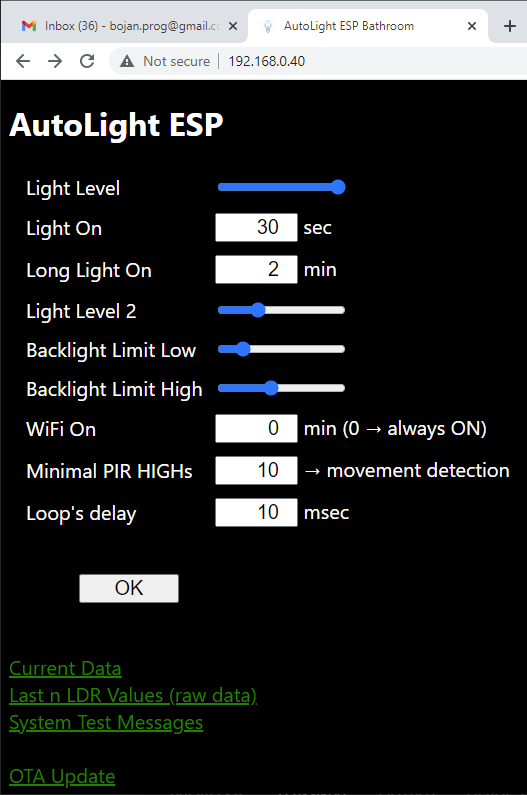
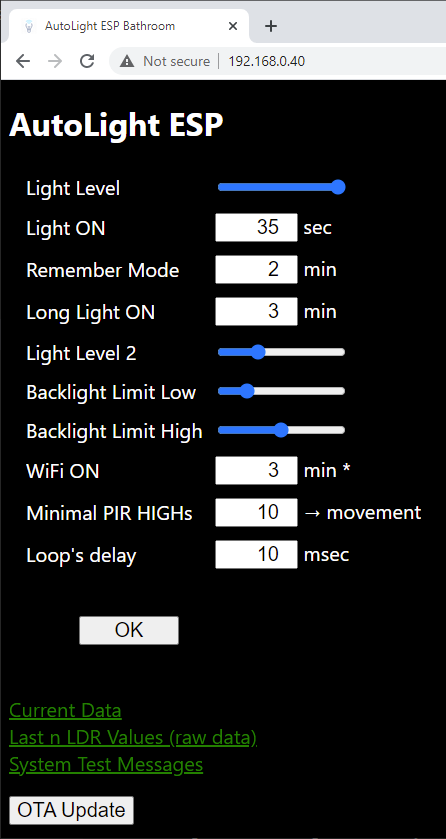
Added feat: OTA update via HTTP server. Added setts httpServerUpdate, rememberMode. Updated pic: Web app - Index.

diff --git a/data/index.html b/data/index.html
@@ -19,14 +19,17 @@
                 <tr>
                     <td>Light Level</td>
                     <td> <input type="range" id="numLightLevel" min="1" max="100"> </td>
-                    <!-- https://www.w3schools.com/howto/howto_js_rangeslider.asp -->
                 </tr>
                 <tr>
-                    <td>Light On</td>
+                    <td>Light ON</td>
                     <td><input type="number" id="numLightOn" min="1" max="300"> sec</td>
                 </tr>
                 <tr>
-                    <td>Long Light On</td>
+                    <td>Remember Mode</td>
+                    <td><input type="number" id="numRememberMode" min="1" max="30" size="3"> min</td>
+                </tr>
+                <tr>
+                    <td>Long Light ON</td>
                     <td><input type="number" id="numLongLightOn" min="1" max="30"> min</td>
                 </tr>
                 <tr>
@@ -42,21 +45,17 @@
                     <td><input type="range" id="numBacklightLimitHigh" min="1" max="100"></td>
                 </tr>
                 <tr>
-                    <td>WiFi On</td>
-                    <td><input type="number" id="numWifiOn" min="0" max="30" size="3"> min (0 → always ON)
+                    <td>WiFi ON</td>
+                    <td><input type="number" id="numWifiOn" min="0" max="30" size="3"> min *
                     </td>
                 </tr>
-                <!-- <tr>
-                    <td>Delay after light out</td>
-                    <td><input type="number" id="numLightOutDelay" min="0" max="2000" size="3"> msec</td>
-                </tr> -->
                 <tr>
                     <td>Minimal PIR HIGHs</td>
-                    <td><input type="number" id="numMinHighPIRs" min="1" max="100" size="3"> → movement detection</td>
+                    <td><input type="number" id="numMinHighPIRs" min="1" max="100" size="3"> → movement</td>
                 </tr>
                 <tr>
                     <td>Loop's delay</td>
-                    <td><input type="number" id="numMsMainDelay" min="5" max="500" size="3"> msec</td>
+                    <td><input type="number" id="numMsMainDelay" min="1" max="100" size="3"> msec</td>
                 </tr>
             </table>
             <input type="button" id='btnOk' value="OK" onclick="SaveConfig()" class="big">
@@ -66,9 +65,8 @@
             <a href="current_data.html">Current Data</a> <br>
             <a href="get_ldr_vals">Last n LDR Values (raw data)</a> <br>
             <a href="msgs">System Test Messages</a> <br>
-            <br>
-            <a href="otaUpdate">OTA Update</a>
         </p>
+        <button class="big" onclick="OTA()">OTA Update</button>
     </div>
 </body>
 

diff --git a/data/inc/index.js b/data/inc/index.js
@@ -55,13 +55,13 @@ function ParseConfig(resp) {
 
 function DisplayConfig() {
     numLightOn.value = ConfValue('lightOn');
-    numLongLightOn.value = ConfValue('longLightOn');
     numLightLevel.value = ConfValue('lightLevel');
+    numRememberMode.value = ConfValue('rememberMode');
+    numLongLightOn.value = ConfValue('longLightOn');
     numLightLevel2.value = ConfValue('lightLevel2');
     numBacklightLimitLow.value = ConfValue('backlightLimitLow');
     numBacklightLimitHigh.value = ConfValue('backlightLimitHigh');
     numWifiOn.value = ConfValue('wifiOn');
-    //B numLightOutDelay.value = ConfValue('lightOutDelay');
     numMinHighPIRs.value = ConfValue('minHighPIRs');
     numMsMainDelay.value = ConfValue('msMainDelay');
 }
@@ -77,13 +77,13 @@ function SaveConfig() {
     const sepParams = '&';
     const confData
         = 'lightOn' + sepProps + numLightOn.value + sepParams
-        + 'longLightOn' + sepProps + numLongLightOn.value + sepParams
         + 'lightLevel' + sepProps + numLightLevel.value + sepParams
+        + 'rememberMode' + sepProps + numRememberMode.value + sepParams
+        + 'longLightOn' + sepProps + numLongLightOn.value + sepParams
         + 'lightLevel2' + sepProps + numLightLevel2.value + sepParams
         + 'backlightLimitLow' + sepProps + numBacklightLimitLow.value + sepParams
         + 'backlightLimitHigh' + sepProps + numBacklightLimitHigh.value + sepParams
         + 'wifiOn' + sepProps + numWifiOn.value + sepParams
-        //B + 'lightOutDelay' + sepProps + numLightOutDelay.value + sepParams
         + 'minHighPIRs' + sepProps + numMinHighPIRs.value + sepParams
         + 'msMainDelay' + sepProps + numMsMainDelay.value;
 
@@ -97,4 +97,9 @@ function SaveConfig() {
         };
         xhttp.open('GET', 'save_config?' + confData, true); xhttp.send();
     }
+}
+
+function OTA() {
+    var res = confirm('Please choose:\n  OK - HTTP Server\n  Cancel - local OTA update');
+    location.href = 'otaUpdate?type=' + (res ? 'web' : 'local');
 }

diff --git a/src/main.cpp b/src/main.cpp
@@ -1,6 +1,8 @@
 #include <Arduino.h>
 #include <LinkedList.h>
 
+#include <ESP8266httpUpdate.h>
+
 #include <WiFiServerBasics.h>
 ESP8266WebServer server(80);
 
@@ -20,14 +22,10 @@ EasyINI ei("/config.ini");
 const byte pinPhotoRes = A0; // pin za LDR i taster za WiFi
 const byte pinPIR = D0;
 // OUTPUT
-const byte pinLight = D8; // LED svetlo za osvetljavanje prostorije
-const byte pinLed = 2;    // ugradjena LED dioda na ESPu - upaljena kada radi wifi
+const byte pinLight = D8;        // LED svetlo za osvetljavanje prostorije
+const byte pinLed = LED_BUILTIN; // ugradjena LED dioda na ESPu - upaljena kada radi wifi
 
-const int eepromPos = 88; // pozicija u EEPROMu na kojoj ce se cuvati podatak da li se wifi pali ili ne pri sledecm resetu
-
-const ulong itvOtaTime = 1 * 60 * 1000; // vreme (u ms) koje ce aparat provesti u cekanju da pocne OTA update
-const ulong itvModWait = 2 * 60 * 1000; // vreme cekanja na ponovnu upotrebu moda (dugo i/ili slabo svetlo).
-// posle toga se aparat vraca na standardna podesavanja - kratko (npr 45sec) svetlo, podrazumevanog intenziteta.
+const ulong itvOtaTime = 1 * 60 * 1000; // vreme koje ce aparat provesti u cekanju da pocne lokalni OTA update
 
 // variables
 bool isLightOn;              // da li je svetlo upaljeno ili ne
@@ -117,6 +115,7 @@ void WiFiOn()
 {
     SetLight(true);
     WiFi.mode(WIFI_STA);
+    //? if (WiFi.status() != WL_CONNECTED)
     ConnectToWiFi();
     SetupIPAddress(40);
     WebServerStart();
@@ -176,14 +175,6 @@ void HandleMsgs()
     server.send(200, "text/plain", EasyFS::readf());
 }
 
-void HandleOTA()
-{
-    server.send(200, "text/plain", "ESP is waiting for OTA updates...");
-    msLastServerAction = millis();
-    isOtaOn = true;
-    ArduinoOTA.begin();
-}
-
 void HandleNotFound()
 {
     String s = "Page Not Found\n\n";
@@ -193,6 +184,25 @@ void HandleNotFound()
     for (int i = 0; i < server.args(); i++)
         s += " " + server.argName(i) + ": " + server.arg(i) + "\n";
     server.send(404, "text/plain", s);
+}
+
+void HandleOTA()
+{
+    server.send(200, "text/plain", "ESP is waiting for OTA updates...");
+    String type = server.arg("type");
+    if (type == "web") // HTTP Server Update
+    {
+        delay(100); // kratko cekanje da se server.send() izvrsi
+        setts.setHttpServerUpdate(true);
+        setts.saveToFile();
+        ESP.reset();
+    }
+    if (type == "local") // PlatformIO Update
+    {
+        msLastServerAction = millis();
+        isOtaOn = true;
+        ArduinoOTA.begin();
+    }
 }
 
 // Konfiguracija veb servera i njegovo pokretanje.
@@ -226,9 +236,29 @@ void setup()
 
     Serial.begin(115200);
     LittleFS.begin();
-    ReadConfigFile();
     EasyFS::setFileName("/msgs.log", true);
-
+    newMsg("httpServerUpdate", setts.httpServerUpdate);
+    ReadConfigFile();
+    if (setts.httpServerUpdate)
+    {
+        WiFi.mode(WIFI_STA);
+        ConnectToWiFi();
+        setts.setHttpServerUpdate(false);
+        setts.saveToFile();
+        WiFiClient client;
+        ESPhttpUpdate.setLedPin(pinLed, LOW);
+        HTTPUpdateResult res = ESPhttpUpdate.updateFS(client, "http://kingtrader.info/esp/AutoLightESP2/littlefs.bin");
+        if (res == HTTP_UPDATE_OK)
+        {
+            res = ESPhttpUpdate.update(client, "http://kingtrader.info/esp/AutoLightESP2/firmware.bin");
+            if (res == HTTP_UPDATE_OK)
+                newMsg("update OK!");
+            else
+                newMsg("HTTP Server Update Error: " + ESPhttpUpdate.getLastErrorString());
+        }
+        else
+            newMsg("HTTP Server Update FS Error: " + ESPhttpUpdate.getLastErrorString());
+    }
     WiFiOn();
 }
 
@@ -300,7 +330,7 @@ void loop()
         msLastShortClick = cntShortClicks = 0;
     }
 
-    if (!isLightOn && msModLastSet != 0 && ms > msModLastSet && ms - msModLastSet > itvModWait)
+    if (!isLightOn && msModLastSet != 0 && ms > msModLastSet && ms - msModLastSet > setts.rememberMode)
     {
         isLongLight = isLight2 = false;
         msModLastSet = 0;

diff --git a/lib/Setts/src/Setts.h b/lib/Setts/src/Setts.h
@@ -13,6 +13,8 @@ private:
 
 public:
     uint lightOn;                 // koliko je sekundi svetlo upaljeno posle poslednjeg signala sa PIR-a
+    uint rememberMode;            // vreme cekanja na ponovnu upotrebu moda (dugo i/ili slabo svetlo).
+                                  // posle toga se aparat vraca na standardna podesavanja - kratko svetlo podrazumevanog intenziteta.
     uint longLightOn;             // koliko je minuta dugo svetlo upaljeno posle poslednjeg signala sa PIR-a
     uint lightLevel = MAX_LEVEL;  // jacina LED svetla (0-100)
     uint lightLevel2 = MAX_LEVEL; // jacina drugog/sekundarnog LED svetla (0-100)
@@ -20,22 +22,24 @@ public:
     uint backlightLimitHigh;      // granica pozadinskog osvetljenja ispod koje se svetlo ne gasi
     uint wifiOn;                  // broj minuta za koje wifi ostaje ukljucen; 0 -> wifi je uvek ukljucen
     uint msMainDelay;             // broj milisekundi delay-a u loop-u
-    //B uint lightOutDelay;           // delay u ms posle gasenja svetla
-    uint minHighPIRs; // minimalan broj uzastopnih PIR HIGH signala da bi se to prihvatilo kao detektovani pokret
+    uint minHighPIRs;             // minimalan broj uzastopnih PIR HIGH signala da bi se to prihvatilo kao detektovani pokret
+    bool httpServerUpdate;        // da li treba update-ovati ESP preko HTTP servera posle reseta
 
-    const uint MAX_LEVEL = 100; // maksimalni nivo osvetljenja
+    const uint MAX_LEVEL = 100;  // maksimalni nivo osvetljenja
+    const uint MAX_MINUTES = 30; // maksimalni interval u minutima (ukljucen WiFi, dugo svetlo...)
 
     int photoInterval; // Cekanje (u sec) izmedju 2 slikanja.
     void setLightOn(uint x) { lightOn = constrain(x, 1, 300); }
-    void setLongLightOn(uint x) { longLightOn = constrain(x, 1, 30); }
+    void setRememberMode(uint x) { rememberMode = constrain(x, 1, MAX_MINUTES); }
     void setLightLevel(uint x) { lightLevel = constrain(x, 1, MAX_LEVEL); }
+    void setLongLightOn(uint x) { longLightOn = constrain(x, 1, MAX_MINUTES); }
     void setLightLevel2(uint x) { lightLevel2 = constrain(x, 1, MAX_LEVEL); }
     void setBacklightLimitLow(uint x) { backlightLimitLow = constrain(x, 1, MAX_LEVEL); }
     void setBacklightLimitHigh(uint x) { backlightLimitHigh = constrain(x, 1, MAX_LEVEL); }
-    void setWifiOn(uint x) { wifiOn = constrain(x, 0, 30); }
-    //B void setLightOutDelay(uint x) { lightOutDelay = constrain(x, 0, 2000); }
+    void setWifiOn(uint x) { wifiOn = constrain(x, 0, MAX_MINUTES); }
     void setMinHighPIRs(uint x) { minHighPIRs = constrain(x, 1, 100); }
     void setMsMainDelay(uint x) { msMainDelay = constrain(x, 1, 100); }
+    void setHttpServerUpdate(bool x) { httpServerUpdate = x; }
 
     const char *getFileName() { return fileName; }
 

diff --git a/lib/Setts/src/Setts.cpp b/lib/Setts/src/Setts.cpp
@@ -5,7 +5,9 @@ bool Setts::load()
     ei = new EasyINI(fileName);
     if (ei->open(FMOD_READ))
     {
-        lightOn = ei->getInt("lightOn");
+        //B lightOn = ei->getInt("lightOn");
+        setLightOn(ei->getInt("lightOn"));
+        setRememberMode(ei->getInt("lightOn"));
         longLightOn = ei->getInt("longLightOn");
         lightLevel = ei->getInt("lightLevel");
         lightLevel2 = ei->getInt("lightLevel2");
@@ -13,8 +15,8 @@ bool Setts::load()
         backlightLimitHigh = ei->getInt("backlightLimitHigh");
         wifiOn = ei->getInt("wifiOn");
         msMainDelay = ei->getInt("msMainDelay");
-        //B lightOutDelay = ei->getInt("lightOutDelay");
         minHighPIRs = ei->getInt("minHighPIRs");
+        httpServerUpdate = ei->getInt("httpServerUpdate");
         ei->close();
         return true;
     }
@@ -26,6 +28,7 @@ void Setts::saveToMem(ESP8266WebServer &server)
 {
     // lightOn=41&lightLevel=100&backlightLimitLow=21&backlightLimitHigh=51&wifiOn=121&lightOutDelay=500&minHighPIRs=10&msMainDelay=10
     setLightOn(server.arg("lightOn").toInt());
+    setRememberMode(server.arg("rememberMode").toInt());
     setLongLightOn(server.arg("longLightOn").toInt());
     setLightLevel(server.arg("lightLevel").toInt());
     setLightLevel2(server.arg("lightLevel2").toInt());
@@ -33,7 +36,6 @@ void Setts::saveToMem(ESP8266WebServer &server)
     setBacklightLimitHigh(server.arg("backlightLimitHigh").toInt());
     setWifiOn(server.arg("wifiOn").toInt());
     setMsMainDelay(server.arg("msMainDelay").toInt());
-    //B setLightOutDelay(server.arg("lightOutDelay").toInt());
     setMinHighPIRs(server.arg("minHighPIRs").toInt());
 }
 
@@ -42,6 +44,7 @@ void Setts::saveToFile()
     if (ei->open(FMOD_WRITE))
     {
         ei->setInt("lightOn", lightOn);
+        ei->setInt("rememberMode", rememberMode);
         ei->setInt("longLightOn", longLightOn);
         ei->setInt("lightLevel", lightLevel);
         ei->setInt("lightLevel2", lightLevel2);
@@ -49,8 +52,8 @@ void Setts::saveToFile()
         ei->setInt("backlightLimitHigh", backlightLimitHigh);
         ei->setInt("wifiOn", wifiOn);
         ei->setInt("msMainDelay", msMainDelay);
-        //B ei->setInt("lightOutDelay", lightOutDelay);
         ei->setInt("minHighPIRs", minHighPIRs);
+        ei->setInt("httpServerUpdate", httpServerUpdate);
         ei->close();
     }
 }
